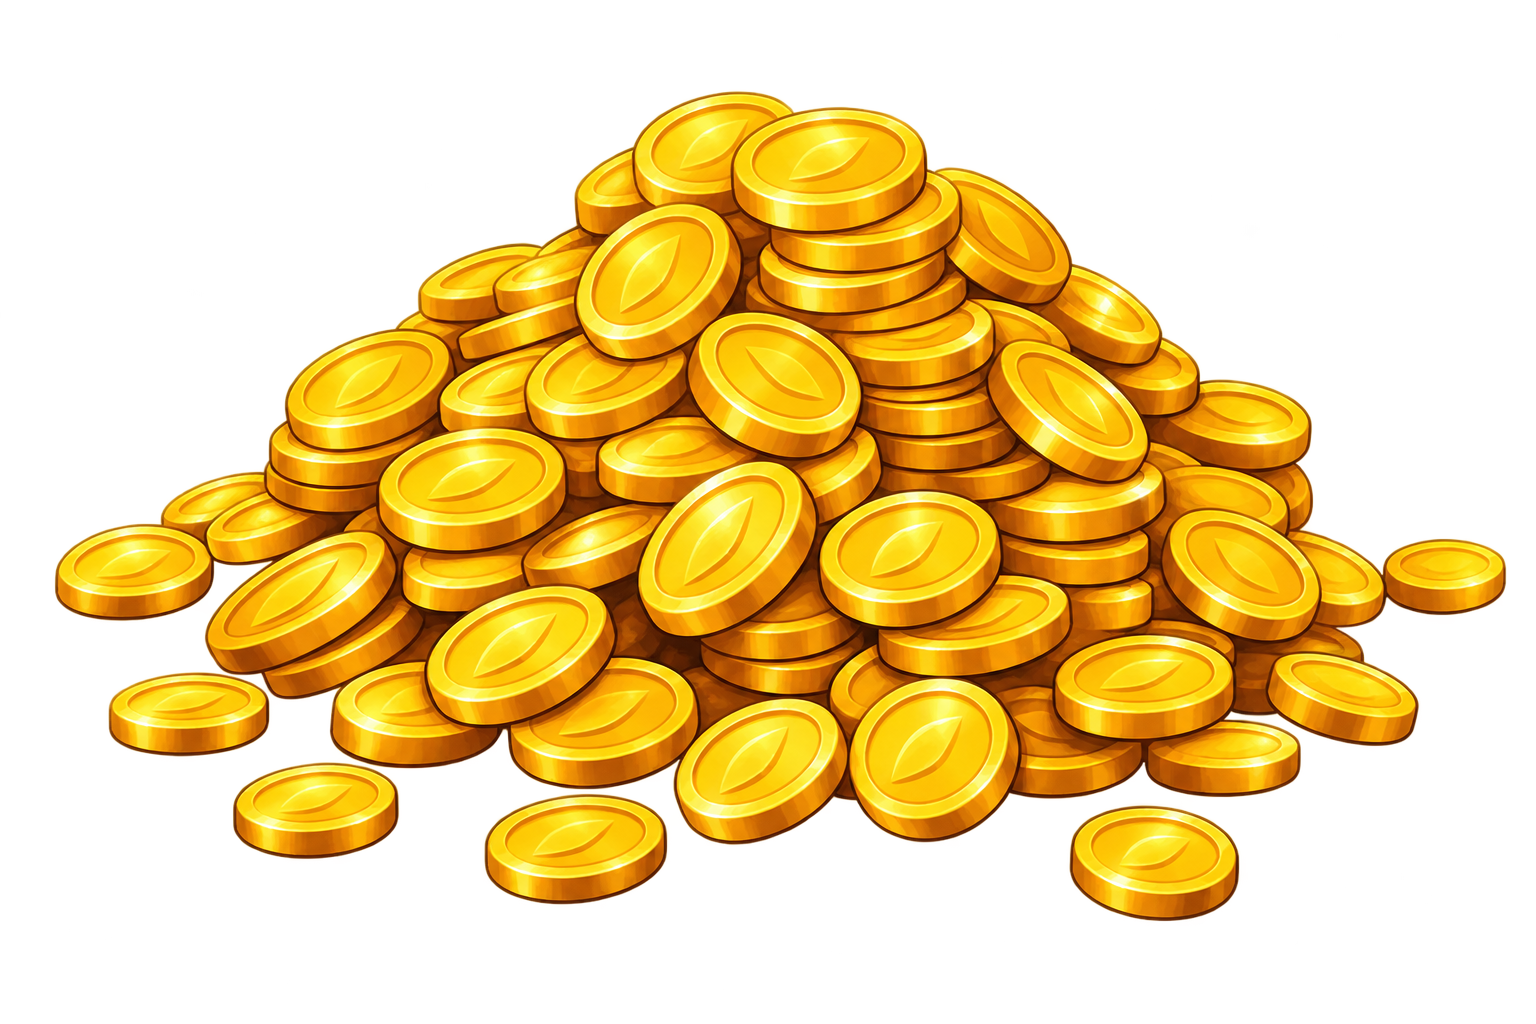
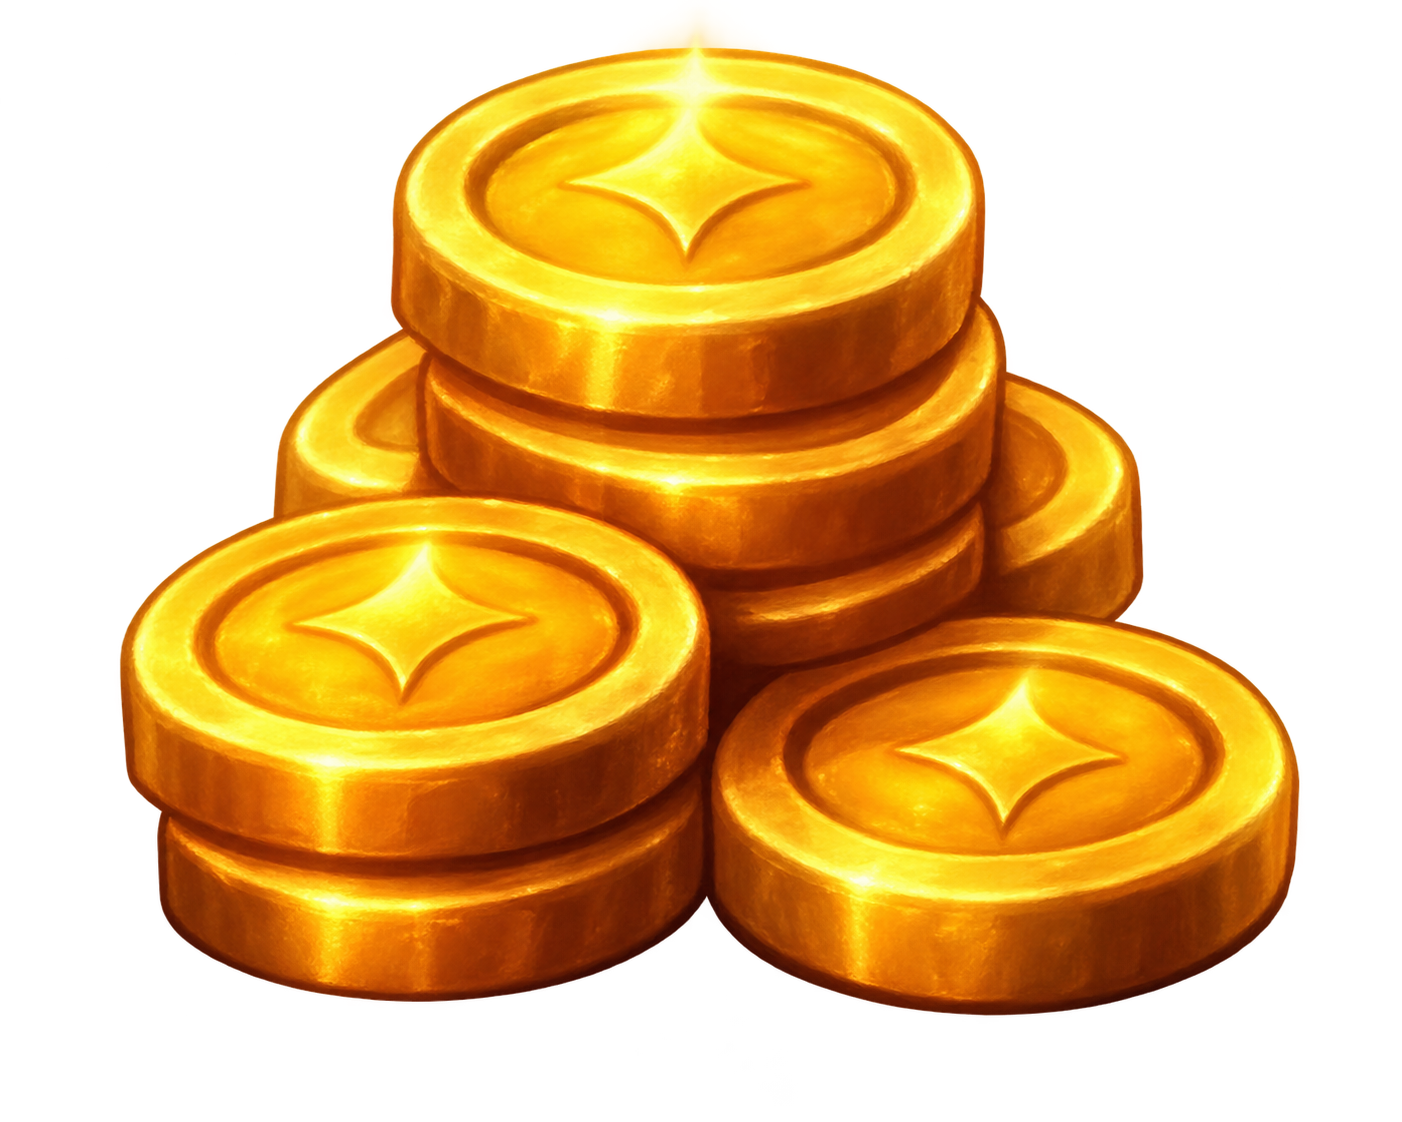
Update: changed + added new image assets, worked on UI

diff --git a/src/components/ResultBanner.jsx b/src/components/ResultBanner.jsx
@@ -1,4 +1,8 @@
 import React from "react";
+import { Skull } from "lucide-react";
+import skull from "../assets/skull.png";
+import goldCoins from "../assets/gold_coins.png";
+import trophy from "../assets/trophy.png";
 
 const ResultBanner = ({
   gameStatus,
@@ -6,39 +10,61 @@ const ResultBanner = ({
   activeBet,
   currentMultiplier,
 }) => {
-  const winText = "You Win!";
-  const lossText = "You Loose!";
-  const cashedText = "Cashed Out!";
+  const winText = "YOU WIN!";
+  const lossText = "YOU LOSE!";
+  const cashedText = "CASHED OUT!";
   return (
     <div className="flex justify-center">
       {gameStatus === "won" ||
       gameStatus === "lost" ||
       gameStatus === "cashed" ? (
-        <>
-          <div className="text-white border p-2 rounded-lg">
-            {gameStatus === "won" && (
-              <div>
-                {winText}
-                <p>Cashed Out at {currentMultiplier}x</p>
-                <p>+${currentMultiplier * activeBet}</p>
+        <div className="p-2 ">
+          {/* Win State */}
+          {gameStatus === "won" && (
+            <div className="flex items-center gap-1.5 rounded-lg px-6 py-1 bg-linear-to-t from-green-500 from-5% to-[#060D17] to-60% border-t-2 border-green-500 transition-colors duration-300 ease-in hover:from-[#060D17] hover:from-40% hover:to-green-500 hover:to-100% hover:border-b-2 hover:border-green-500">
+              <div className="border p-2 rounded-lg bg-green-400">
+                <img src={trophy} className="h-10" />
               </div>
-            )}
-            {gameStatus === "lost" && (
-              <div>
-                {lossText}
+              <div className="flex flex-col items-center text-green-400">
+                <p className="font-bold">{winText}</p>
+                <p>Cashed Out at {currentMultiplier}x</p>
+                <p className="font-medium text-[18px]">
+                  +${currentMultiplier * activeBet}
+                </p>
+              </div>
+            </div>
+          )}
+
+          {/* Lost State */}
+          {gameStatus === "lost" && (
+            <div className="flex items-center gap-1.5 rounded-lg px-6 py-1 bg-linear-to-t from-red-900 from-5% to-[#060D17] to-60% border-t-2 border-red-900 transition-colors duration-300 ease-in hover:from-[#060D17] hover:from-40% hover:to-red-900 hover:to-100% hover:border-b-2 hover:border-red-900">
+              <div className="p-2 rounded-lg bg-red-600">
+                <img src={skull} className="h-10" />
+              </div>
+              <div className="flex flex-col items-center text-red-700">
+                <p className="font-bold">{lossText}</p>
                 <p>Hit a skull on Row {currentRow + 1}</p>
-                <p>-${activeBet}</p>
+                <p className="font-medium text-[18px] text-red-600">
+                  -${activeBet}
+                </p>
               </div>
-            )}
-            {gameStatus === "cashed" && (
-              <div>
-                {cashedText}
+            </div>
+          )}
+
+          {/* Cashed Out State */}
+          {gameStatus === "cashed" && (
+            <div className="flex items-center gap-1.5 rounded-lg px-6 py-1 bg-linear-to-t from-yellow-200 from-5% to-[#060D17] to-60% border-t-2 border-yellow-200 transition-colors duration-300 ease-in hover:from-[#060D17] hover:from-40% hover:to-yellow-900 hover:to-100% hover:border-b-2 hover:border-yellow-200">
+              <div className="p-2 rounded-lg bg-[#FDC700]">
+                <img src={goldCoins} className="h-10" />
+              </div>
+              <div className="flex flex-col items-center text-yellow-500">
+                <p className="font-bold">{cashedText}</p>
                 <p>Cashed Out at {currentMultiplier}x</p>
-                <p>+${currentMultiplier * activeBet}</p>
+                <p className="font-medium text-[18px] text-green-900">+${(currentMultiplier * activeBet).toFixed(2)}</p>
               </div>
-            )}
-          </div>
-        </>
+            </div>
+          )}
+        </div>
       ) : (
         ""
       )}

diff --git a/src/components/Game.jsx b/src/components/Game.jsx
@@ -1,5 +1,5 @@
 import React from "react";
-import { useState, useEffect } from "react";
+import { useState, useEffect, useRef } from "react";
 import CardRow from "./CardRow";
 
 import { generateRowCards, getRowMultiplier } from "../utils/gameLogic";
@@ -12,6 +12,8 @@ import Header from "./Header";
 import { Play } from "lucide-react";
 import SpecularButton from "./SpecularButton";
 import ResultBanner from "./ResultBanner";
+
+import { BanknoteArrowDown } from "lucide-react";
 
 function Game() {
   const [balance, setBalance] = useState(() => {
@@ -35,6 +37,19 @@ function Game() {
   useEffect(() => {
     localStorage.setItem("treasureHuntBalance", String(balance));
   }, [balance]);
+
+  const rowRefs = useRef([]);
+  const topRef = useRef(null);
+
+  useEffect(() => {
+    const el = rowRefs.current[currentRow];
+    if (el) {
+      el.scrollIntoView({
+        behavior: "smooth",
+        block: "center",
+      });
+    }
+  }, [currentRow]);
 
   function startGame() {
     if (gameStatus === "playing") {
@@ -100,7 +115,7 @@ function Game() {
   };
 
   return (
-    <div>
+    <div ref={topRef}>
       <Header />
       <DifficultySelector
         difficulty={difficulty}
@@ -158,36 +173,52 @@ function Game() {
       />
 
       {err && <p>{err}</p>}
-
-      {rows.map((row, index) => {
-        const rowMultiplier = getRowMultiplier(difficulty, index);
-        return (
-          <CardRow
-            key={`${roundId}-${index}`}
-            cards={row.cards}
-            isActive={index === currentRow}
-            onCardFlip={handleCardFlip}
-            rowLocked={rowLocked}
-            roundId={roundId}
-            gameStatus={gameStatus}
-            rowMultiplier={rowMultiplier}
-          />
-        );
-      })}
-
-      <button
-        onClick={handleCashOut}
-        disabled={gameStatus !== "playing" || currentRow === 0}
-        className="text-white"
+      <div
+        className={`${gameStatus === "idle" ? "h-0" : "h-100"} overflow-y-auto scrollbar-none [&::-webkit-scrollbar]:hidden`}
       >
-        CashOut
-      </button>
-      <ResultBanner
-        gameStatus={gameStatus}
-        currentRow={currentRow}
-        activeBet={activeBet}
-        currentMultiplier={currentMultiplier}
-      />
+        {rows.map((row, index) => {
+          const rowMultiplier = getRowMultiplier(difficulty, index);
+          return (
+            <CardRow
+              key={`${roundId}-${index}`}
+              cards={row.cards}
+              isActive={index === currentRow}
+              onCardFlip={handleCardFlip}
+              rowLocked={rowLocked}
+              roundId={roundId}
+              gameStatus={gameStatus}
+              rowMultiplier={rowMultiplier}
+              rowNumber={index + 1}
+              ref={(el) => (rowRefs.current[index] = el)}
+            />
+          );
+        })}
+      </div>
+      <div className="flex justify-center items-center">
+        <div className="">
+          <button
+            onClick={handleCashOut}
+            disabled={gameStatus !== "playing" || currentRow === 0}
+            className="text-white px-8 py-2 border-2 border-[#1B6435] rounded-lg flex gap-3 items-center bg-linear-to-t from-[#00230B] to-[#126736] transition-transform duration-80 ease-in active:scale-95"
+          >
+            <BanknoteArrowDown size={30} stroke="#46ab4e" />
+            <div className="font-medium">
+              CASH OUT
+              {activeBet !== 0 && (
+                <p className="text-[#46ab4e] text-[18px] font-bold">
+                  ${(activeBet * currentMultiplier).toFixed(2)}
+                </p>
+              )}
+            </div>
+          </button>
+        </div>
+        <ResultBanner
+          gameStatus={gameStatus}
+          currentRow={currentRow}
+          activeBet={activeBet}
+          currentMultiplier={currentMultiplier}
+        />
+      </div>
     </div>
   );
 }

diff --git a/src/components/Card.jsx b/src/components/Card.jsx
@@ -3,23 +3,23 @@ import { useState } from "react";
 import questionMark from "../assets/question_mark.png";
 import goldCoins from "../assets/gold_coins.png";
 import skull from "../assets/skull.png";
+import grayQuestionMark from "../assets/gray_question_mark.png";
 
 const Card = ({ type, isActive, onCardFlip, rowLocked, gameStatus }) => {
   const [flipped, setFlipped] = useState(false);
 
   const revealImage = type === "skull" ? skull : goldCoins;
-  const revealBg = type === "skull" ? "bg-red-400" : "bg-yellow-400";
+  const revealBg = type === "skull" ? "bg-red-600" : "bg-yellow-400";
   return (
     <div>
       <div
         className={`h-23 w-18 rounded-lg flex justify-center items-center ${flipped ? revealBg : "bg-[#13181F]"} transition-transform ${flipped ? "transform-[rotateY(180deg)]" : ""}`}
         onClick={() => {
-          if (!isActive || rowLocked || gameStatus!=="playing") {
+          if (!isActive || rowLocked || gameStatus !== "playing") {
             return;
           }
           setFlipped(true);
           onCardFlip(type);
-          
         }}
       >
         {flipped ? (
@@ -28,10 +28,11 @@ const Card = ({ type, isActive, onCardFlip, rowLocked, gameStatus }) => {
           </>
         ) : (
           <>
-            <img
-              src={questionMark}
-              className="h-15 w-12 "
-            />
+            {isActive ? (
+              <img src={questionMark} className="h-15 w-12 " />
+            ) : (
+              <img src={grayQuestionMark} className="h-15 w-12 " />
+            )}
           </>
         )}
       </div>

diff --git a/src/components/CardRow.jsx b/src/components/CardRow.jsx
@@ -1,7 +1,8 @@
 import React from "react";
 import Card from "./Card";
+import { forwardRef } from "react";
 
-const CardRow = ({
+const CardRow = forwardRef(({
   cards,
   isActive,
   onCardFlip,
@@ -9,16 +10,18 @@ const CardRow = ({
   roundId,
   gameStatus,
   rowMultiplier,
-}) => {
+  rowNumber,
+},ref) => {
   return (
-    <div className="flex justify-center">
+    <div ref={ref} className="flex justify-center">
       <div
         className={`flex items-center gap-2 px-4 py-3 mb-1 rounded-lg ${isActive ? "bg-yellow-100" : "bg-gray-500 opacity-75"}`}
       >
         <div
-          className={`w-15 text-2xl font-medium ${isActive ? "text-yellow-600" : "text-gray-800"}`}
+          className={`w-15 ${isActive ? "text-yellow-600" : "text-gray-800"} flex flex-col items-center`}
         >
-          {rowMultiplier}x
+          <p className="font-[Barlow_Condensed]">ROW {rowNumber}</p>
+          <p className="text-2xl font-medium">{rowMultiplier}x</p>
         </div>
         {cards.map((type, index) => {
           return (
@@ -35,6 +38,6 @@ const CardRow = ({
       </div>
     </div>
   );
-};
+});
 
 export default CardRow;
